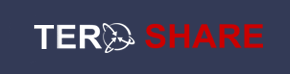
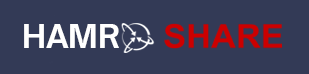
Eso Readme Chitikkai Pardai

diff --git a/README.md b/README.md
@@ -1,70 +1,58 @@
-# Getting Started with Create React App
 
-This project was bootstrapped with [Create React App](https://github.com/facebook/create-react-app).
+# ⚙ HamroShare : Batch IPO Applier
 
-## Available Scripts
+HamroShare is a minimal web-application that lets you apply for IPOs from multiple mershare accounts at once.
 
-In the project directory, you can run:
+Note: This programe was made with intention of learning more of ReactJS .
+I am not a professional ReactJS Dev . Saying that , i hope i am not bullied for my way of code.😔
 
-### `yarn start`
+![Logo](src/assets/images/logo_v2.png)
 
-Runs the app in the development mode.\
-Open [http://localhost:3000](http://localhost:3000) to view it in your browser.
 
-The page will reload when you make changes.\
-You may also see any lint errors in the console.
+## FAQ
 
-### `yarn test`
+#### Is it Safe ?
 
-Launches the test runner in the interactive watch mode.\
-See the section about [running tests](https://facebook.github.io/create-react-app/docs/running-tests) for more information.
+Yes it is safe from the Account Stealing Aspect , but i don't know whats the CDSC's 
+tos isfor the use of such Automation Software. Code is open-source , 
+you can look at it yourself , build it yourself if you dont trust the existing build.
 
-### `yarn build`
+#### Are there any spooky backend API Linked With It ?
 
-Builds the app for production to the `build` folder.\
-It correctly bundles React in production mode and optimizes the build for the best performance.
+Trust me Broo, Everything Happens within a Client's Browser . Nothing Spooky.
 
-The build is minified and the filenames include the hashes.\
-Your app is ready to be deployed!
+#### How is it bypassing cors without using a Backend Proxy ?
 
-See the section about [deployment](https://facebook.github.io/create-react-app/docs/deployment) for more information.
+Yeah for web api there was a cors issue , but i later switched to Meroshare's Mobile Application API .
+## Features
 
-### `yarn eject`
+- Cross Platform
+- User Friendly
+- Automatic Batch Apply
 
-**Note: this is a one-way operation. Once you `eject`, you can't go back!**
+## Run Locally
 
-If you aren't satisfied with the build tool and configuration choices, you can `eject` at any time. This command will remove the single build dependency from your project.
+Clone the project
 
-Instead, it will copy all the configuration files and the transitive dependencies (webpack, Babel, ESLint, etc) right into your project so you have full control over them. All of the commands except `eject` will still work, but they will point to the copied scripts so you can tweak them. At this point you're on your own.
+```bash
+  git clone https://github.com/dineshtiwari69/HamroShare
+```
 
-You don't have to ever use `eject`. The curated feature set is suitable for small and middle deployments, and you shouldn't feel obligated to use this feature. However we understand that this tool wouldn't be useful if you couldn't customize it when you are ready for it.
+Go to the project directory
 
-## Learn More
+```bash
+  cd HamroShare
+```
 
-You can learn more in the [Create React App documentation](https://facebook.github.io/create-react-app/docs/getting-started).
+Install dependencies
 
-To learn React, check out the [React documentation](https://reactjs.org/).
+```bash
+  yarn install
+```
 
-### Code Splitting
+Start the server
 
-This section has moved here: [https://facebook.github.io/create-react-app/docs/code-splitting](https://facebook.github.io/create-react-app/docs/code-splitting)
+```bash
+  yarn start
+```
 
-### Analyzing the Bundle Size
-
-This section has moved here: [https://facebook.github.io/create-react-app/docs/analyzing-the-bundle-size](https://facebook.github.io/create-react-app/docs/analyzing-the-bundle-size)
-
-### Making a Progressive Web App
-
-This section has moved here: [https://facebook.github.io/create-react-app/docs/making-a-progressive-web-app](https://facebook.github.io/create-react-app/docs/making-a-progressive-web-app)
-
-### Advanced Configuration
-
-This section has moved here: [https://facebook.github.io/create-react-app/docs/advanced-configuration](https://facebook.github.io/create-react-app/docs/advanced-configuration)
-
-### Deployment
-
-This section has moved here: [https://facebook.github.io/create-react-app/docs/deployment](https://facebook.github.io/create-react-app/docs/deployment)
-
-### `yarn build` fails to minify
-
-This section has moved here: [https://facebook.github.io/create-react-app/docs/troubleshooting#npm-run-build-fails-to-minify](https://facebook.github.io/create-react-app/docs/troubleshooting#npm-run-build-fails-to-minify)
